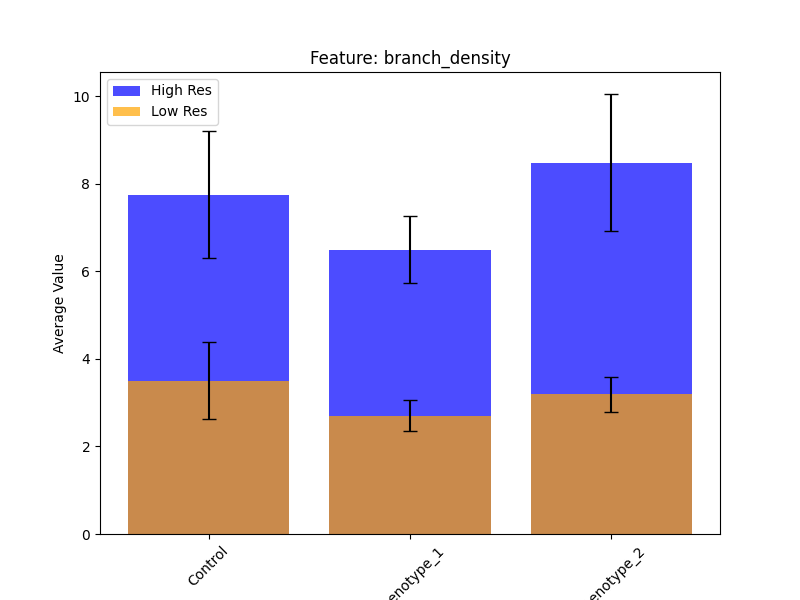
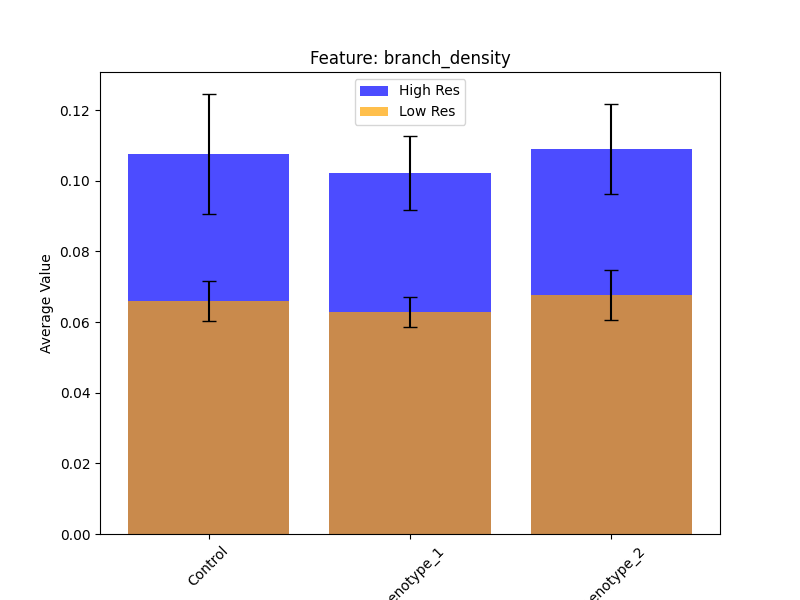
Features added, more bug squash

diff --git a/preprocessing.py b/preprocessing.py
@@ -152,10 +152,11 @@ def apply_skeletonization(binarized_file, skeletonized_file):
     labels_list = list(range(1, num_labels))  # Start from 1 to skip background
     all_features = []
     all_individual_skeletons = []
+    results = []
 
     # Use ThreadPoolExecutor to parallelize feature extraction
-    with ThreadPoolExecutor() as executor:
-        results = list(executor.map(lambda label: process_astrocyte(label, labels, pruned_complete_skeleton), labels_list))
+    for label in labels_list:
+        results.append(process_astrocyte(label, labels, pruned_complete_skeleton))
 
     # Process results: collect features and merge skeletons
     for feature, skeleton in results:
@@ -173,8 +174,9 @@ def apply_skeletonization(binarized_file, skeletonized_file):
 
     print(f"Processed: {binarized_file}")
 
-    return all_features if all_features else [{"object_label": 0, "num_branches": 0, "branch_lengths": [],
-                                               "total_skeleton_length": 0, "area": 0, "perimeter": 0, "roundness": 0}]
+    return all_features if all_features else [{"object_label": 0, "num_branches": 0, "num_projections" : 0, "branch_lengths": [],
+            "total_skeleton_length": 0, "area": 0, "fractal_dim": 0, "perimeter": 0, "circularity": 0, "roundness": 0,
+            "projection_lengths": [], "num_neighbors" : 0, "length_width_ratio" : 0}]
 
 def process_astrocyte(label, labels, pruned_complete_skeleton):
     # TODO: create documentation for how each of the features are calculated
@@ -202,8 +204,14 @@ def process_astrocyte(label, labels, pruned_complete_skeleton):
         contours, _ = cv2.findContours(astrocyte_mask, cv2.RETR_EXTERNAL, cv2.CHAIN_APPROX_SIMPLE)
         perimeter = cv2.arcLength(contours[0], True) if len(contours) > 0 else 0
 
-        num_projs2, proj_lengths, avg_proj_length, max_proj_length = analyze_projections(individual_skeleton)
+        # LENGTH/WIDTH RATIO feature
+        x, y, width, height = cv2.boundingRect(astrocyte_mask)
+        length = max(width, height)
+        width = min(width, height)
+        length_width_ratio = length / width if width > 0 else 0
 
+        # Nikhita's FRACTAL DIMENSION
+        num_projs2, proj_lengths, avg_proj_length, max_proj_length = analyze_projections(skeleton_uint8)
         if num_projs2 > 0:
             fractal_dim = calculate_fractal_dimension(astrocyte_mask) # see function
         else:
@@ -211,6 +219,13 @@ def process_astrocyte(label, labels, pruned_complete_skeleton):
 
         if fractal_dim > 1.6: # function returned large fractal dimension for small, low-res images, so getting rid of them
             fractal_dim = -1
+
+        # Nikhita's NEIGHBORS feature
+        kernel = np.ones((70, 70), np.uint8) # need to determine the area to consider for neighbors
+        dilated_mask = cv2.dilate(astrocyte_mask, kernel, iterations=1)
+        neighbors = np.unique(labels[dilated_mask > 0])
+        neighbors = neighbors[(neighbors != label) & (neighbors != 0)]  # removing current component and 0 (background)
+        num_neighbors = len(neighbors)
 
 
         # Collect features for this astrocyte
@@ -224,7 +239,10 @@ def process_astrocyte(label, labels, pruned_complete_skeleton):
             "fractal_dim": fractal_dim,
             "perimeter": perimeter,
             "circularity": (4 * np.pi * np.sum(astrocyte_mask > 0)) / (perimeter ** 2) if perimeter > 0 else 0,
-            "roundness": perimeter**2 / (4 * math.pi * np.sum(astrocyte_mask > 0))
+            "roundness": perimeter**2 / (4 * math.pi * np.sum(astrocyte_mask > 0)),
+            "projection_lengths": proj_lengths,
+            "num_neighbors" : num_neighbors,
+            "length_width_ratio" : length_width_ratio
         }
 
         # Return both features and the pruned skeleton
@@ -257,9 +275,8 @@ def analyze_projections(skeleton_component):
     return num_projs, proj_lengths, avg_proj_length, max_proj_length
 
 def calculate_fractal_dimension(skeleton_img, min_box=1, max_box=None):
-    # Computing fractal dimension w box counting, found to be best method
-    if max_box is None:
-        max_box = min(skeleton_img.shape) // 2 # max box size is half the image, following convention
+    # Computing fractal dimension w box counting, found to be the best method
+    if max_box is None: max_box = min(skeleton_img.shape) // 2 # max box size is half the image, following convention
 
     sizes = np.logspace(np.log10(min_box), np.log10(max_box), num=10, dtype=int)
     counts = np.array([boxcount(skeleton_img, s) for s in sizes if s > 0])

diff --git a/postprocessing.py b/postprocessing.py
@@ -135,7 +135,11 @@ def get_features(features, image_path):
         "circularity": 0,
         "roundness_variance": 0,
         "fractal_dim": 0,
-        "num_projections": 0
+        "num_projections": 0,
+        "num_neighbors": 0,
+        "proj_length": 0,
+        "most_neighbors": 0,
+        "most_projections": 0
     }
 
     for f in astrocyte_features:  # Iterate through features for each astrocyte
@@ -153,42 +157,52 @@ def get_features(features, image_path):
         Totals["circularity"] += f["circularity"]
         Totals["fractal_dim"] += f["fractal_dim"]
         Totals["num_projections"] += f["num_projections"]
+        Totals["proj_length"] += sum(f["projection_lengths"])
+        Totals["num_neighbors"] += f["num_neighbors"]
+        Totals["most_neighbors"] = max(Totals["most_neighbors"], f["num_neighbors"])
+        Totals["most_projections"] = max(Totals["most_projections"], f["num_projections"])
 
     bl = Totals["branch_lengths"] / Totals["num_branches"] if Totals["num_branches"] > 0 else 0
     sl = Totals["total_skeleton_length"] / Totals["analyzed"]
     ar = Totals["roundness"] / Totals["analyzed"]
     aa = Totals["average_area"] / Totals["analyzed"]
     ap = Totals["average_perimeter"] / Totals["analyzed"]
-    bd = Totals["num_branches"] / sl
+    bd = Totals["num_branches"]/ Totals["analyzed"] / sl if sl > 0 else 0
     ab = Totals["num_branches"] / Totals["analyzed"]
     ac = Totals["circularity"] / Totals["analyzed"]
     anp = Totals["num_projections"] / Totals["analyzed"]
     afd = Totals["fractal_dim"] / Totals["analyzed"]
+    nn = Totals["num_neighbors"] / Totals["analyzed"]
+    pl = Totals["proj_length"] / Totals["analyzed"]
 
     for f in astrocyte_features:
         Totals["roundness_variance"] += (f["roundness"] - ar)**2
 
-    rv = Totals["roundness_variance"] / (Totals["analyzed"] - 1)
+    rv = Totals["roundness_variance"] / (Totals["analyzed"] - 1) if Totals["analyzed"] > 1 else 0
 
 
     Averages = {
-        # "num_branches": Totals["num_branches"],
+        "num_branches": f"{bl:.3f}",
         "branch_lengths": f"{bl:.3f}",
-        # "skeleton_length": f"{sl:.3f}",
-        # "most_branches": Totals["most_branches"],
+        "skeleton_length": f"{sl:.3f}",
+        "most_branches": Totals["most_branches"],
         "analyzed": Totals["analyzed"],
         "average_roundness": f"{ar:.3f}",
         "average_area" : f"{aa:.3f}",
-        "a_ratio" : f"{aa / Totals['largest_area']:.3f}",
-        # "average_perimeter" : f"{ap:.3f}",
-        # "largest_perimeter" : Totals["largest_perimeter"],
+        "a_ratio" : f"{aa / Totals['largest_area']:.3f}", # Probably useless
+        "average_perimeter" : f"{ap:.3f}",
+        "largest_perimeter" : Totals["largest_perimeter"], # Found to be useless
         "thickness" : f"{aa / sl:.3f}",
         "branch_density" : f"{bd:.3f}",
-        # "average_branches" : f"{ab:.3f}",
+        "average_branches" : f"{ab:.3f}", # Found to be useless
         "average_circularity" : f"{ac:.3f}",
         "roundness_variance" : f"{rv:.3f}",
         "average_fractal_dim" : f"{afd:.3f}",
-        "average_num_projections" : f"{anp:.3f}"
+        "average_num_projections" : f"{anp:.3f}",
+        "num_neighbors" : f"{nn:.3f}",
+        "proj_length": f"{pl:.3f}",
+        "most_neighbors": Totals["most_neighbors"],
+        "most_projections": Totals["most_projections"]
     }
 
     return Averages

diff --git a/frontend.py b/frontend.py
@@ -1,0 +1,35 @@
+from PyQt6.QtWidgets import QApplication, QWidget, QLabel, QPushButton, QVBoxLayout, QFileDialog
+import sys
+
+class MyWindow(QWidget):
+    def __init__(self):
+        super().__init__()
+
+        self.initUI()
+
+    def initUI(self):
+        # Create a label
+        self.label = QLabel("Hello! Click the button below.", self)
+
+        # Create a button
+        self.button = QPushButton("Open File", self)
+        self.button.clicked.connect(self.open_file_dialog)
+
+        # Layout
+        layout = QVBoxLayout()
+        layout.addWidget(self.label)
+        layout.addWidget(self.button)
+
+        self.setLayout(layout)
+        self.setWindowTitle("PyQt6 Frontend")
+        self.resize(400, 200)
+
+    def open_file_dialog(self):
+        file_name, _ = QFileDialog.getOpenFileName(self, "Open File", "", "All Files (*)")
+        if file_name:
+            self.label.setText(f"Selected File:\n{file_name}")
+
+app = QApplication(sys.argv)
+window = MyWindow()
+window.show()
+sys.exit(app.exec())

diff --git a/feature_comparison.py b/feature_comparison.py
@@ -1,8 +1,7 @@
-from sklearn.model_selection import train_test_split
 from sklearn.ensemble import RandomForestClassifier
-from sklearn.metrics import accuracy_score, classification_report
 import pandas as pd
 import seaborn as sns
+import numpy as np
 
 # Reload the newly uploaded datasets
 updated_file_paths = {
@@ -58,9 +57,24 @@ plt.show()
 # Compute correlation matrix
 correlation_matrix = df_combined.corr()
 
+# Mask for upper triangle
+mask = np.triu(np.ones_like(correlation_matrix, dtype=bool))
+
 # Plot heatmap
 plt.figure(figsize=(10, 8))
-sns.heatmap(correlation_matrix, annot=True, cmap="coolwarm", fmt=".2f", linewidths=0.5)
+# Draw the heatmap with the mask and correct aspect ratio
+sns.heatmap(
+    correlation_matrix,
+    mask=mask,
+    annot=True,
+    cmap="coolwarm",
+    fmt=".2f",
+    linewidths=0.5,
+    annot_kws={"size": 8}  # Reduce font size for annotations
+)
+
+plt.xticks(rotation=45, ha='right', fontsize=6)
+plt.yticks(fontsize=6)
 plt.title("Correlation Matrix of Features")
 plt.show()
 
